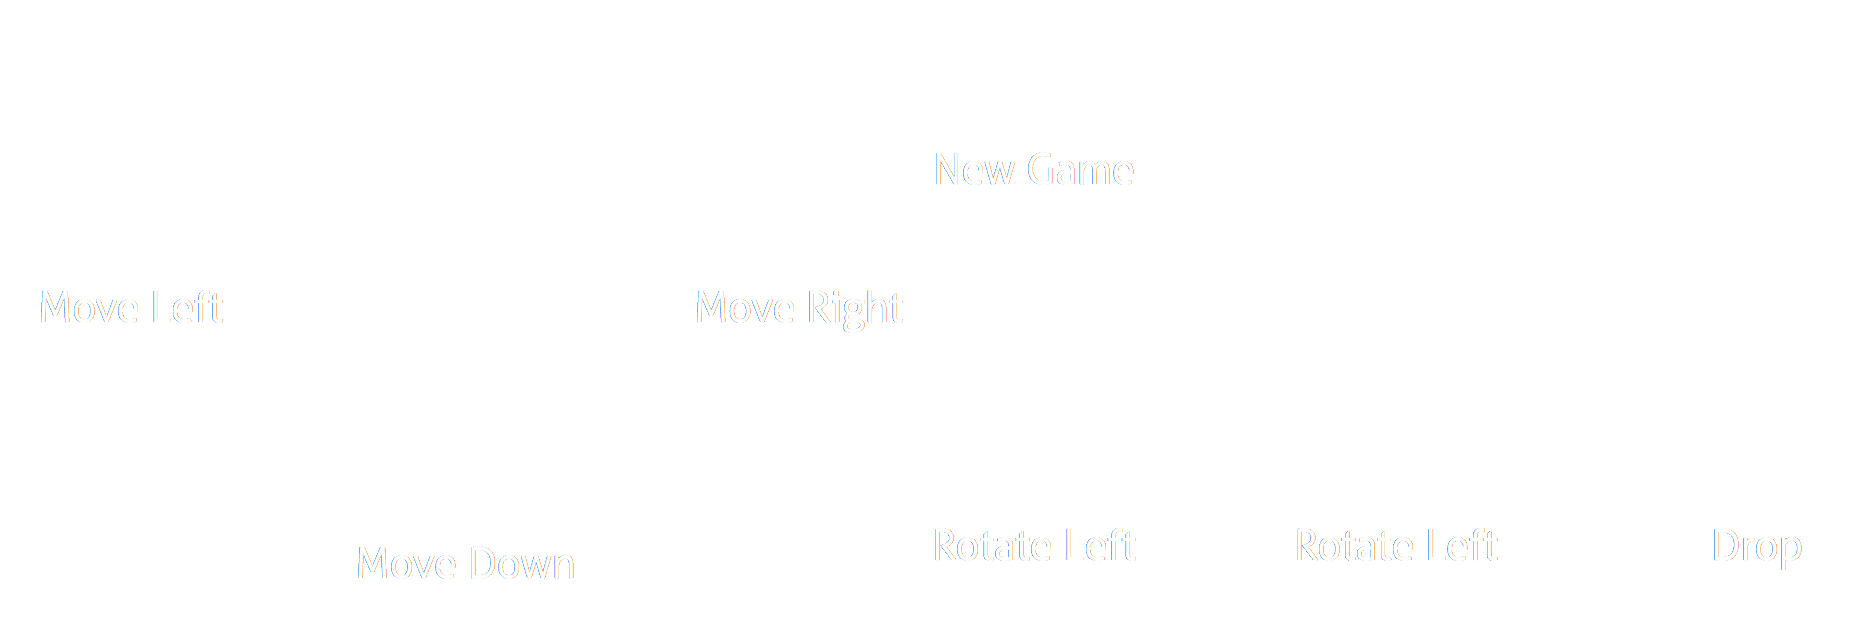
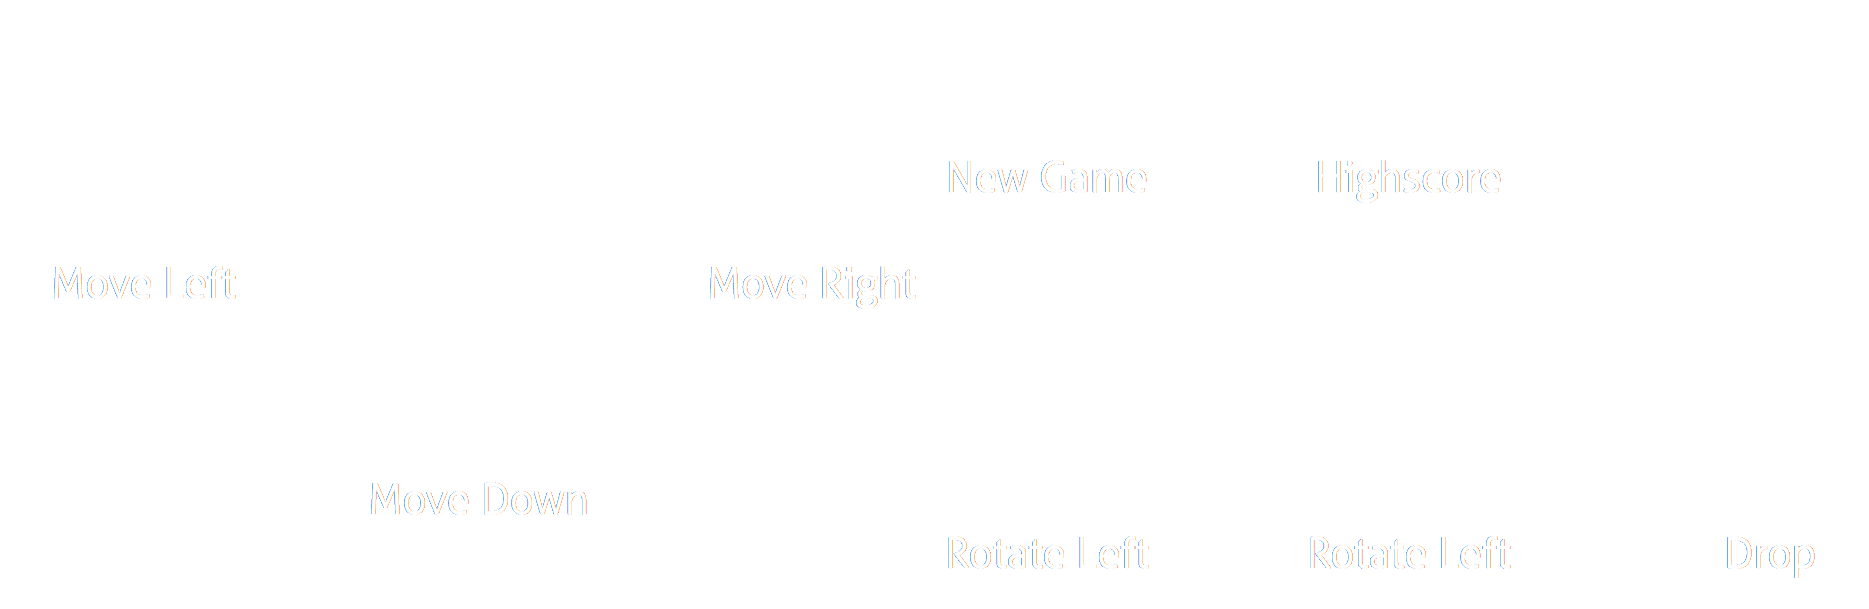
change howto.png

diff --git a/client/src/app/component/game-app/game-app.component.html b/client/src/app/component/game-app/game-app.component.html
@@ -43,60 +43,61 @@
 
 <div class="jumbotron">
   <div class="howto">
-    <img src="assets/img/howto.png" class="img-responsive">
-    <!--<h1>Controls</h1>-->
-    <!--<div class="row">-->
-    <!--<div class="col-md-5">-->
-    <!--<i class="fa fa-4x fa-arrows" aria-hidden="true"></i>-->
-    <!--<p>Move Down</p>-->
-    <!--<p id="move-left">Move Left</p>-->
-    <!--<p id="move-right">Move Right</p>-->
-    <!--</div>-->
-    <!--<div class="col-md-7">-->
-    <!--<div class="row">-->
-    <!--<div class="col-md-12">-->
-    <!--<div class="row">-->
-    <!--<div class="col-md-4">-->
-    <!--<i class="fa fa-3x fa-circle" aria-hidden="true"></i>-->
-    <!--<p>New Game</p>-->
-    <!--</div>-->
-    <!--<div class="col-md-4">-->
-    <!--<i class="fa fa-3x fa-circle-o" aria-hidden="true"></i>-->
-    <!--</div>-->
-    <!--</div>-->
-    <!--</div>-->
-    <!--<div class="col-md-12">-->
-    <!--<div class="row">-->
-    <!--<div class="col-md-4">-->
-    <!--<i class="fa fa-3x fa-circle-o" aria-hidden="true"></i>-->
-    <!--</div>-->
-    <!--<div class="col-md-4">-->
-    <!--<i class="fa fa-3x fa-circle-o" aria-hidden="true"></i>-->
-    <!--</div>-->
-    <!--<div class="col-md-4">-->
-    <!--<i class="fa fa-3x fa-circle-o" aria-hidden="true"></i>-->
-    <!--<p>&nbsp;</p>-->
-    <!--</div>-->
-    <!--</div>-->
-    <!--</div>-->
-    <!--<div class="col-md-12">-->
-    <!--<div class="row">-->
-    <!--<div class="col-md-4">-->
-    <!--<i class="fa fa-3x fa-circle" aria-hidden="true"></i>-->
-    <!--<p>Rotate Left</p>-->
-    <!--</div>-->
-    <!--<div class="col-md-4">-->
-    <!--<i class="fa fa-3x fa-circle" aria-hidden="true"></i>-->
-    <!--<p>Rotate Left</p>-->
-    <!--</div>-->
-    <!--<div class="col-md-4">-->
-    <!--<i class="fa fa-3x fa-circle" aria-hidden="true"></i>-->
-    <!--<p>Drop</p>-->
-    <!--</div>-->
-    <!--</div>-->
-    <!--</div>-->
-    <!--</div>-->
-    <!--</div>-->
-    <!--</div>-->
+    <!--<img src="assets/img/howto.png" class="img-responsive">-->
+    <h1>Controls</h1>
+    <div class="row">
+      <div class="col-md-5">
+        <i class="fa fa-4x fa-arrows" aria-hidden="true"></i>
+        <p>Move Down</p>
+        <p id="move-left">Move Left</p>
+        <p id="move-right">Move Right</p>
+      </div>
+      <div class="col-md-7">
+        <div class="row">
+          <div class="col-md-12">
+            <div class="row">
+              <div class="col-md-4">
+                <i class="fa fa-3x fa-circle" aria-hidden="true"></i>
+                <p>New Game</p>
+              </div>
+              <div class="col-md-4">
+                <i class="fa fa-3x fa-circle" aria-hidden="true"></i>
+                <p>Highscore</p>
+              </div>
+            </div>
+          </div>
+          <div class="col-md-12">
+            <div class="row">
+              <div class="col-md-4">
+                <i class="fa fa-3x fa-circle-o" aria-hidden="true"></i>
+              </div>
+              <div class="col-md-4">
+                <i class="fa fa-3x fa-circle-o" aria-hidden="true"></i>
+              </div>
+              <div class="col-md-4">
+                <i class="fa fa-3x fa-circle-o" aria-hidden="true"></i>
+                <p>&nbsp;</p>
+              </div>
+            </div>
+          </div>
+          <div class="col-md-12">
+            <div class="row">
+              <div class="col-md-4">
+                <i class="fa fa-3x fa-circle" aria-hidden="true"></i>
+                <p>Rotate Left</p>
+              </div>
+              <div class="col-md-4">
+                <i class="fa fa-3x fa-circle" aria-hidden="true"></i>
+                <p>Rotate Left</p>
+              </div>
+              <div class="col-md-4">
+                <i class="fa fa-3x fa-circle" aria-hidden="true"></i>
+                <p>Drop</p>
+              </div>
+            </div>
+          </div>
+        </div>
+      </div>
+    </div>
   </div>
 </div>
